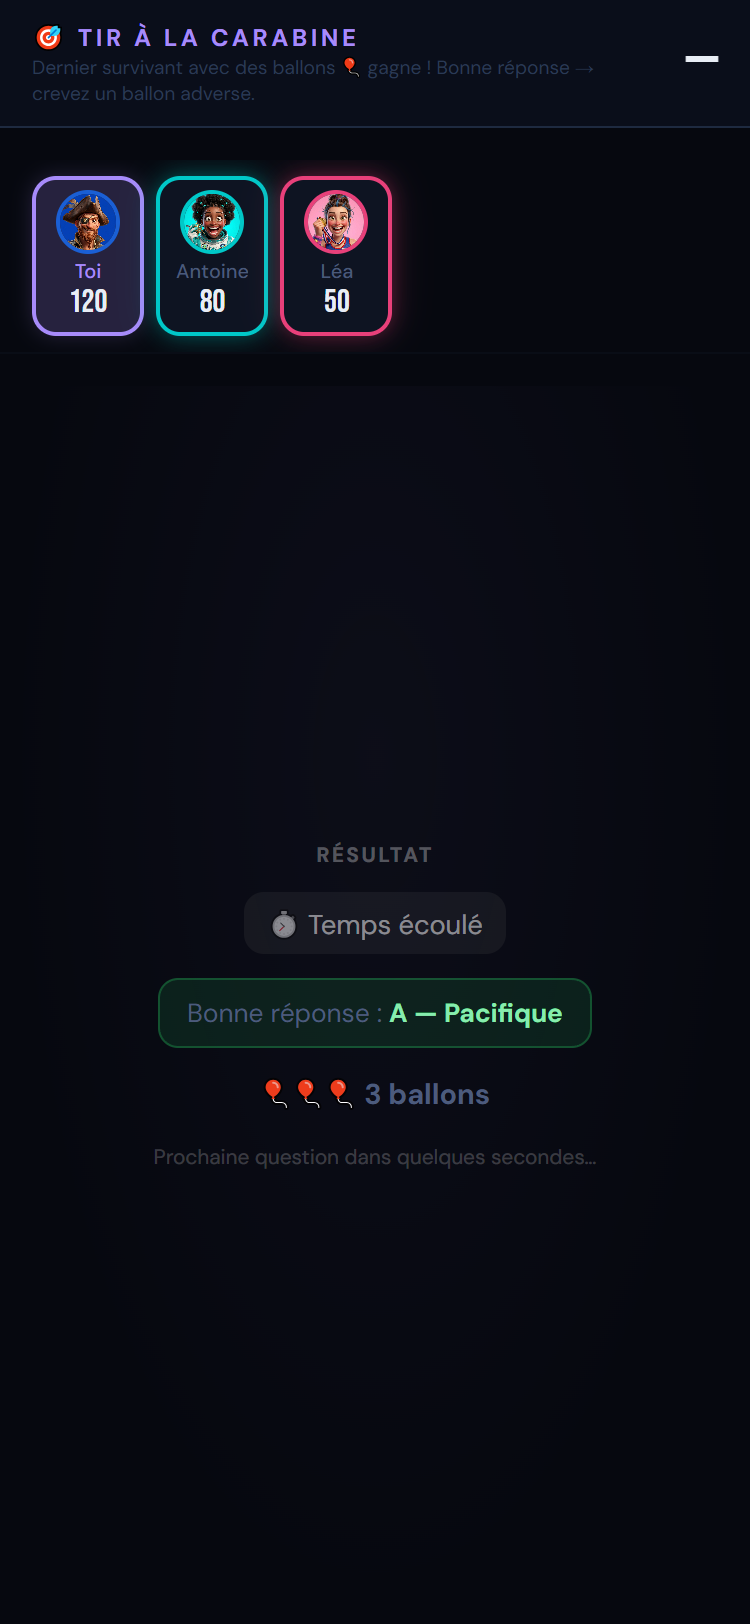
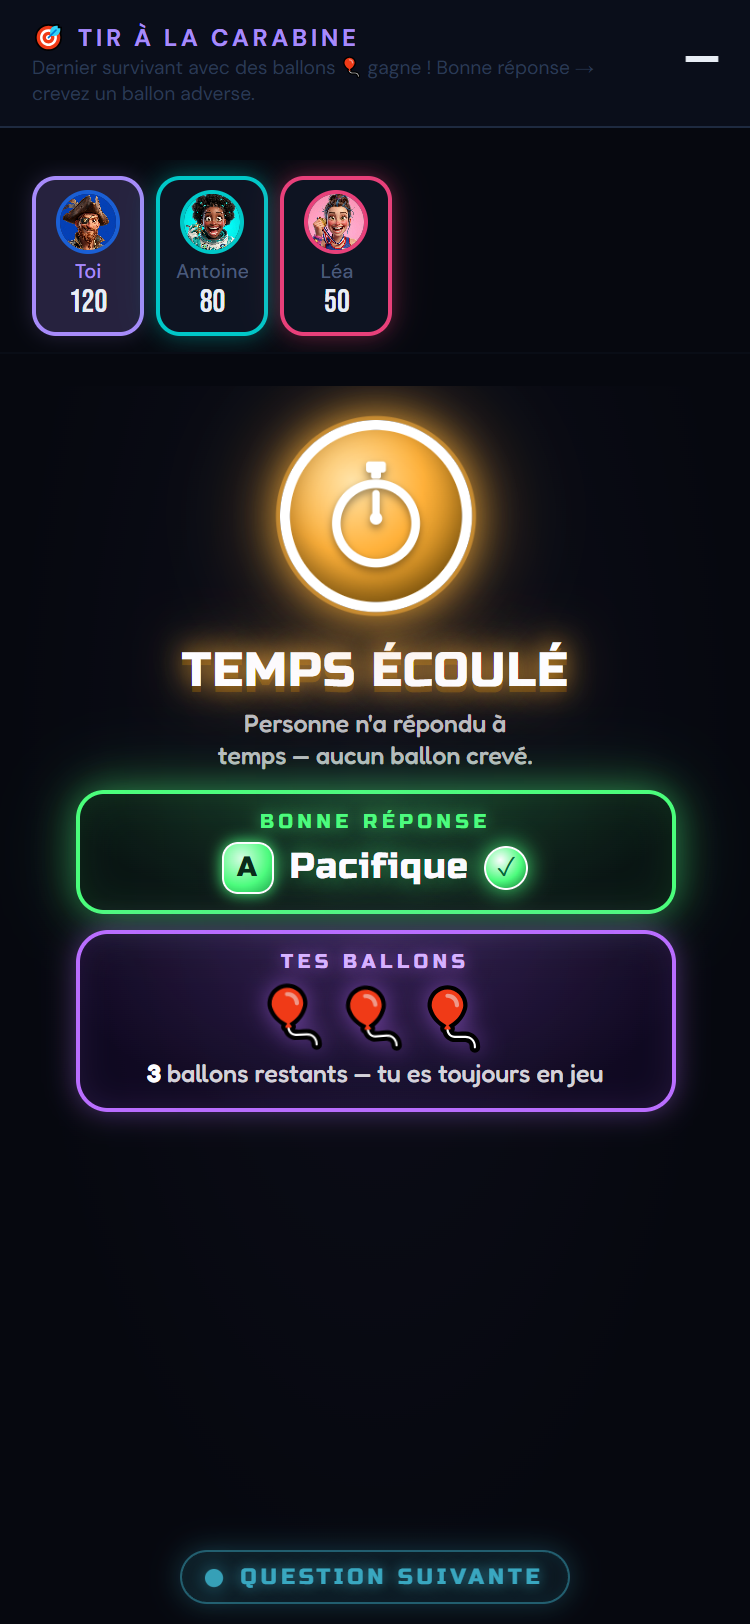
fix(player-3h-carton): compacter l'écran pour qu'il tienne sur mobile
Réduit tailles (hero 150→118, disc 118→96, balloons 44→30, verdict 30→24)
et gaps/paddings pour que le contenu rentre sans rognage sur iOS Safari.

Changed region(s): [[0.0613, 0.2155, 0.9507, 0.7389], [0.2453, 0.9544, 0.7667, 1.0]]

diff --git a/player.html b/player.html
@@ -246,46 +246,51 @@
     .rb-fact-text{font-family:'Fredoka',sans-serif;font-weight:500;font-size:13px;line-height:1.3;color:rgba(255,255,255,.86);text-wrap:pretty}
     /* ── Écran 3h "Inter Carton" — Tir à la carabine (orange/rouge néon) ── */
     .waiting-text:has(.cr-wrap){width:100%;height:100%;display:flex;flex-direction:column;align-self:stretch;text-align:left;color:inherit;font-size:inherit;margin:0;flex:1;min-height:0}
-    .cr-wrap{flex:1;min-height:0;display:flex;flex-direction:column;align-items:center;justify-content:flex-start;gap:14px;padding:14px 18px 18px;text-align:center}
-    .cr-wrap .rb-hero{width:150px;height:150px;margin-bottom:0}
-    .cr-wrap .rb-ring{inset:18px;border-color:#ff8a3a}
+    .cr-wrap{flex:1;min-height:0;display:flex;flex-direction:column;align-items:center;justify-content:flex-start;gap:8px;padding:6px 14px 10px;text-align:center;overflow:hidden}
+    .cr-wrap .rb-hero{width:118px;height:118px;margin-bottom:0;flex-shrink:0}
+    .cr-wrap .rb-ring{inset:14px;border-color:#ff8a3a}
     .cr-ring-hit{border-color:#ff8a3a !important}
     .cr-ring-miss{border-color:#ff4f6a !important}
     .cr-ring-timeout{border-color:#ffb13a !important}
-    .cr-disc{position:relative;z-index:2;width:118px;height:118px;border-radius:50%;display:flex;align-items:center;justify-content:center;border:6px solid #fff;animation:rbPop 2.6s ease-in-out infinite}
-    .cr-disc svg{filter:drop-shadow(0 2px 2px rgba(0,0,0,.4))}
-    .cr-disc-hit{background:radial-gradient(circle at 36% 30%,#ffd6a0 0%,#ff8a3a 44%,#b32d08 100%);box-shadow:0 0 0 2px rgba(255,138,58,.5),0 0 28px #ff8a3a,0 0 62px rgba(255,138,58,.55),inset 0 -6px 16px rgba(0,0,0,.35)}
-    .cr-disc-miss{background:radial-gradient(circle at 36% 30%,#ffb0c0 0%,#ff4f6a 44%,#8a0a22 100%);box-shadow:0 0 0 2px rgba(255,79,106,.5),0 0 28px #ff4f6a,0 0 62px rgba(255,79,106,.5),inset 0 -6px 16px rgba(0,0,0,.35)}
-    .cr-disc-timeout{background:radial-gradient(circle at 36% 30%,#ffe3a8 0%,#ffb13a 44%,#8a5a00 100%);box-shadow:0 0 0 2px rgba(255,177,58,.5),0 0 28px #ffb13a,0 0 62px rgba(255,177,58,.5),inset 0 -6px 16px rgba(0,0,0,.35)}
-    .cr-cross{position:relative;width:62px;height:62px;border-radius:50%;border:4px solid #fff;box-shadow:inset 0 0 10px rgba(0,0,0,.3);display:flex;align-items:center;justify-content:center;filter:drop-shadow(0 2px 2px rgba(0,0,0,.4))}
+    .cr-disc{position:relative;z-index:2;width:96px;height:96px;border-radius:50%;display:flex;align-items:center;justify-content:center;border:5px solid #fff;animation:rbPop 2.6s ease-in-out infinite}
+    .cr-disc svg{filter:drop-shadow(0 2px 2px rgba(0,0,0,.4));width:62px;height:62px}
+    .cr-disc-hit{background:radial-gradient(circle at 36% 30%,#ffd6a0 0%,#ff8a3a 44%,#b32d08 100%);box-shadow:0 0 0 2px rgba(255,138,58,.5),0 0 22px #ff8a3a,0 0 50px rgba(255,138,58,.55),inset 0 -5px 14px rgba(0,0,0,.35)}
+    .cr-disc-miss{background:radial-gradient(circle at 36% 30%,#ffb0c0 0%,#ff4f6a 44%,#8a0a22 100%);box-shadow:0 0 0 2px rgba(255,79,106,.5),0 0 22px #ff4f6a,0 0 50px rgba(255,79,106,.5),inset 0 -5px 14px rgba(0,0,0,.35)}
+    .cr-disc-timeout{background:radial-gradient(circle at 36% 30%,#ffe3a8 0%,#ffb13a 44%,#8a5a00 100%);box-shadow:0 0 0 2px rgba(255,177,58,.5),0 0 22px #ffb13a,0 0 50px rgba(255,177,58,.5),inset 0 -5px 14px rgba(0,0,0,.35)}
+    .cr-cross{position:relative;width:50px;height:50px;border-radius:50%;border:3.5px solid #fff;box-shadow:inset 0 0 8px rgba(0,0,0,.3);display:flex;align-items:center;justify-content:center;filter:drop-shadow(0 2px 2px rgba(0,0,0,.4))}
     .cr-cross::before,.cr-cross::after{content:'';position:absolute;background:#fff}
-    .cr-cross::before{left:50%;top:-12px;bottom:-12px;width:4px;transform:translateX(-50%)}
-    .cr-cross::after{top:50%;left:-12px;right:-12px;height:4px;transform:translateY(-50%)}
-    .cr-cross-dot{width:14px;height:14px;border-radius:50%;background:#fff;z-index:2}
+    .cr-cross::before{left:50%;top:-10px;bottom:-10px;width:3.5px;transform:translateX(-50%)}
+    .cr-cross::after{top:50%;left:-10px;right:-10px;height:3.5px;transform:translateY(-50%)}
+    .cr-cross-dot{width:11px;height:11px;border-radius:50%;background:#fff;z-index:2}
+    .cr-wrap .rb-verdict{font-size:24px;margin-top:-2px}
     .cr-verdict-hit{text-shadow:0 0 14px #ff8a3a,0 0 30px rgba(255,138,58,.65),0 3px 0 #3a1605}
     .cr-verdict-miss{text-shadow:0 0 14px #ff4f6a,0 0 30px rgba(255,79,106,.6),0 3px 0 #3a0512}
     .cr-verdict-timeout{text-shadow:0 0 14px #ffb13a,0 0 30px rgba(255,177,58,.6),0 3px 0 #3a2605}
-    .cr-sub{font-family:'Fredoka',sans-serif;font-weight:500;font-size:14px;line-height:1.35;color:rgba(255,255,255,.72);max-width:290px;text-wrap:balance;margin-top:-4px}
+    .cr-sub{font-family:'Fredoka',sans-serif;font-weight:500;font-size:12.5px;line-height:1.3;color:rgba(255,255,255,.72);max-width:290px;text-wrap:balance;margin-top:-2px}
     .cr-sub b{color:#fff;font-weight:700}
     .cr-pop{filter:drop-shadow(0 0 6px #ff8a3a)}
-    .cr-answer-letter{flex-shrink:0;min-width:30px;height:30px;padding:0 4px;border-radius:9px;display:inline-flex;align-items:center;justify-content:center;font-family:'Russo One',sans-serif;font-size:17px;color:#052a14;background:radial-gradient(circle at 36% 30%,#d6ffe2 0%,#4aff7a 60%,#1ba94a 100%);border:2px solid #fff;box-shadow:0 0 10px #4aff7a;text-shadow:none}
-    .cr-survive{margin-top:2px;width:100%;max-width:300px;padding:14px 18px 16px;border-radius:20px;display:flex;flex-direction:column;align-items:center;gap:10px;background:radial-gradient(ellipse at 50% 0%,rgba(185,109,255,.2) 0%,transparent 78%),rgba(20,8,40,.62);border:2.5px solid #b96dff;box-shadow:0 0 18px rgba(185,109,255,.45),inset 0 0 18px rgba(185,109,255,.12)}
-    .cr-survive.last{border-color:#ffb13a;background:radial-gradient(ellipse at 50% 0%,rgba(255,177,58,.22) 0%,transparent 78%),rgba(40,22,8,.62);box-shadow:0 0 18px rgba(255,177,58,.5),inset 0 0 18px rgba(255,177,58,.12);animation:crLastPulse 1.6s ease-in-out infinite}
-    @keyframes crLastPulse{0%,100%{box-shadow:0 0 18px rgba(255,177,58,.5),inset 0 0 18px rgba(255,177,58,.12)}50%{box-shadow:0 0 30px rgba(255,177,58,.8),inset 0 0 22px rgba(255,177,58,.2)}}
-    .cr-survive.dead{border-color:#ff4f6a;background:radial-gradient(ellipse at 50% 0%,rgba(255,79,106,.2) 0%,transparent 78%),rgba(40,8,18,.62);box-shadow:0 0 18px rgba(255,79,106,.5),inset 0 0 18px rgba(255,79,106,.12)}
-    .cr-survive-lbl{font-family:'Russo One',sans-serif;font-size:12px;letter-spacing:.26em;color:#d8b4ff;text-shadow:0 0 8px rgba(185,109,255,.6)}
+    .cr-wrap .rb-answer{padding:8px 14px;border-radius:14px;margin-top:0}
+    .cr-wrap .rb-answer-lbl{font-size:10px;letter-spacing:.22em;margin-bottom:4px}
+    .cr-wrap .rb-answer-val{font-size:18px;gap:8px}
+    .cr-wrap .rb-answer-check{width:22px;height:22px;font-size:13px;border-width:1.5px}
+    .cr-answer-letter{flex-shrink:0;min-width:26px;height:26px;padding:0 4px;border-radius:8px;display:inline-flex;align-items:center;justify-content:center;font-family:'Russo One',sans-serif;font-size:14px;color:#052a14;background:radial-gradient(circle at 36% 30%,#d6ffe2 0%,#4aff7a 60%,#1ba94a 100%);border:1.5px solid #fff;box-shadow:0 0 8px #4aff7a;text-shadow:none}
+    .cr-survive{margin-top:0;width:100%;max-width:300px;padding:8px 14px 10px;border-radius:16px;display:flex;flex-direction:column;align-items:center;gap:4px;background:radial-gradient(ellipse at 50% 0%,rgba(185,109,255,.2) 0%,transparent 78%),rgba(20,8,40,.62);border:2px solid #b96dff;box-shadow:0 0 14px rgba(185,109,255,.4),inset 0 0 14px rgba(185,109,255,.12)}
+    .cr-survive.last{border-color:#ffb13a;background:radial-gradient(ellipse at 50% 0%,rgba(255,177,58,.22) 0%,transparent 78%),rgba(40,22,8,.62);box-shadow:0 0 14px rgba(255,177,58,.5),inset 0 0 14px rgba(255,177,58,.12);animation:crLastPulse 1.6s ease-in-out infinite}
+    @keyframes crLastPulse{0%,100%{box-shadow:0 0 14px rgba(255,177,58,.5),inset 0 0 14px rgba(255,177,58,.12)}50%{box-shadow:0 0 24px rgba(255,177,58,.8),inset 0 0 18px rgba(255,177,58,.2)}}
+    .cr-survive.dead{border-color:#ff4f6a;background:radial-gradient(ellipse at 50% 0%,rgba(255,79,106,.2) 0%,transparent 78%),rgba(40,8,18,.62);box-shadow:0 0 14px rgba(255,79,106,.5),inset 0 0 14px rgba(255,79,106,.12)}
+    .cr-survive-lbl{font-family:'Russo One',sans-serif;font-size:10px;letter-spacing:.22em;color:#d8b4ff;text-shadow:0 0 8px rgba(185,109,255,.6)}
     .cr-survive.last .cr-survive-lbl{color:#ffd28a;text-shadow:0 0 8px rgba(255,177,58,.6)}
     .cr-survive.dead .cr-survive-lbl{color:#ff9fb0;text-shadow:0 0 8px rgba(255,79,106,.6)}
-    .cr-balloons{display:flex;align-items:flex-end;justify-content:center;gap:8px;min-height:50px}
-    .cr-balloon{font-size:44px;line-height:1;display:inline-block;filter:drop-shadow(0 0 8px rgba(185,109,255,.55));transform-origin:bottom center;animation:crWobble 2.6s ease-in-out infinite}
-    .cr-survive.last .cr-balloon{filter:drop-shadow(0 0 10px rgba(255,177,58,.7))}
+    .cr-balloons{display:flex;align-items:flex-end;justify-content:center;gap:6px;min-height:34px}
+    .cr-balloon{font-size:30px;line-height:1;display:inline-block;filter:drop-shadow(0 0 6px rgba(185,109,255,.55));transform-origin:bottom center;animation:crWobble 2.6s ease-in-out infinite}
+    .cr-survive.last .cr-balloon{filter:drop-shadow(0 0 8px rgba(255,177,58,.7))}
     @keyframes crWobble{0%,100%{transform:rotate(-5deg) translateY(0)}50%{transform:rotate(5deg) translateY(-4px)}}
-    .cr-balloon-gone{font-size:44px;line-height:1;display:inline-block;filter:grayscale(1) brightness(.4);opacity:.35;transform:scale(.82) rotate(-8deg)}
-    .cr-survive-status{font-family:'Fredoka',sans-serif;font-weight:500;font-size:14px;color:rgba(255,255,255,.82);line-height:1.3;text-wrap:balance}
+    .cr-balloon-gone{font-size:30px;line-height:1;display:inline-block;filter:grayscale(1) brightness(.4);opacity:.35;transform:scale(.82) rotate(-8deg)}
+    .cr-survive-status{font-family:'Fredoka',sans-serif;font-weight:500;font-size:12.5px;color:rgba(255,255,255,.82);line-height:1.25;text-wrap:balance}
     .cr-survive-status b{font-weight:700;color:#fff}
     .cr-last-txt{color:#ffd28a;font-weight:700}
     .cr-dead-txt{color:#ff9fb0;font-weight:700}
-    .cr-wrap .rb-next{margin-top:auto}
+    .cr-wrap .rb-next{margin-top:auto;padding:6px 12px;font-size:11px}
     /* ── Écran 3h "Inter Chrono" — Contre la montre (cyan néon) ── */
     .waiting-text:has(.chr-wrap){width:100%;height:100%;display:flex;flex-direction:column;align-self:stretch;text-align:left;color:inherit;font-size:inherit;margin:0;flex:1;min-height:0}
     .chr-wrap{flex:1;min-height:0;display:flex;flex-direction:column;align-items:center;justify-content:flex-start;gap:14px;padding:14px 18px 18px;text-align:center}
@@ -2008,7 +2013,7 @@ function renderInterCarton(room, gs) {
   }
 
   const heroGlyph = tone === 'timeout' ? `
-    <svg viewBox="0 0 100 100" width="78" height="78" aria-hidden="true">
+    <svg viewBox="0 0 100 100" aria-hidden="true">
       <rect x="42" y="6"  width="16" height="9" rx="2.5" fill="#fff"/>
       <rect x="46" y="13" width="8"  height="7"  rx="2"   fill="#fff"/>
       <circle cx="50" cy="56" r="32" fill="none" stroke="#fff" stroke-width="7"/>
